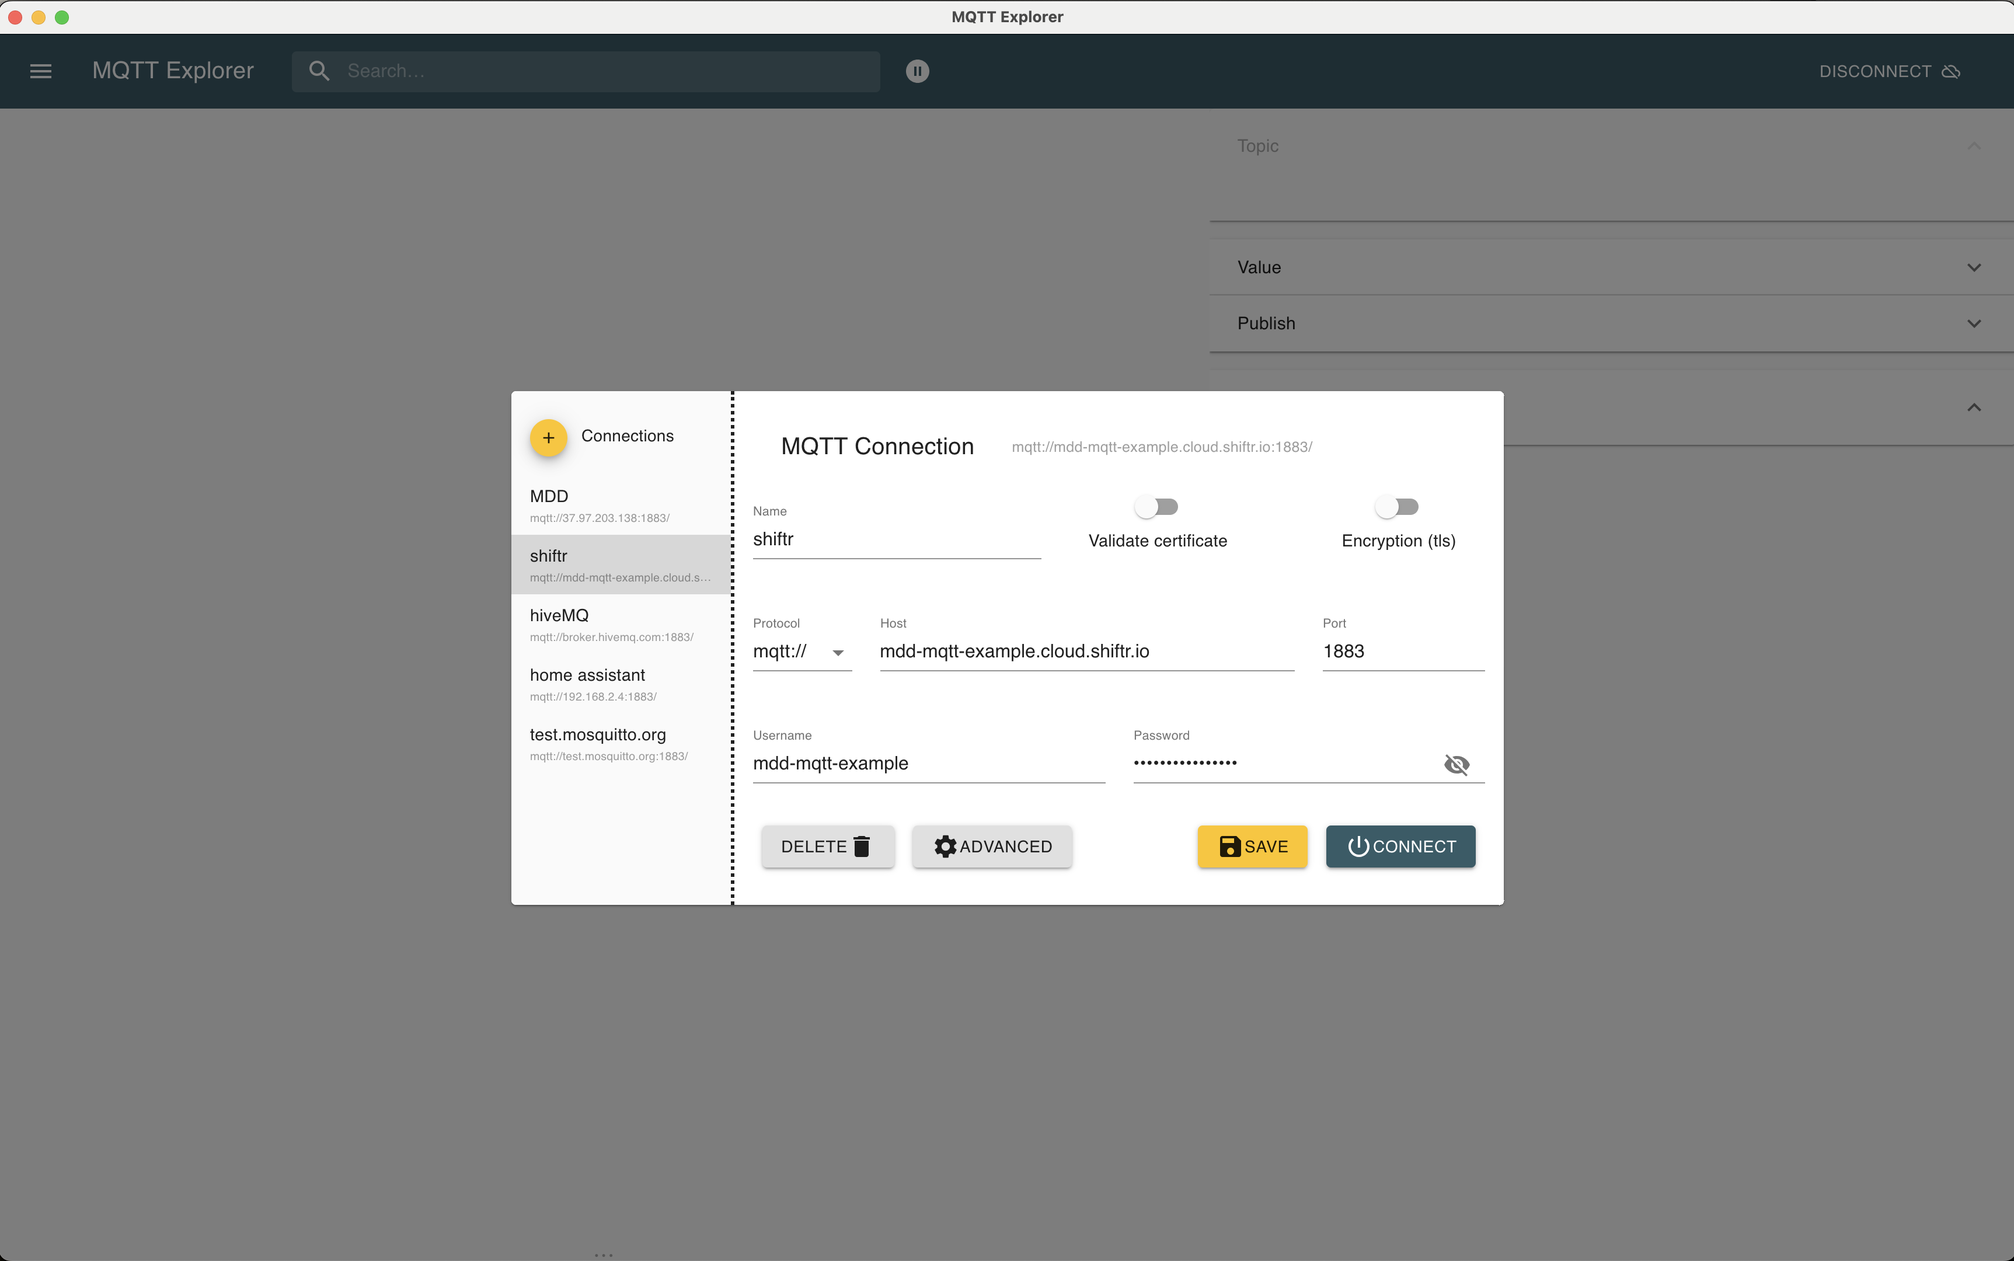
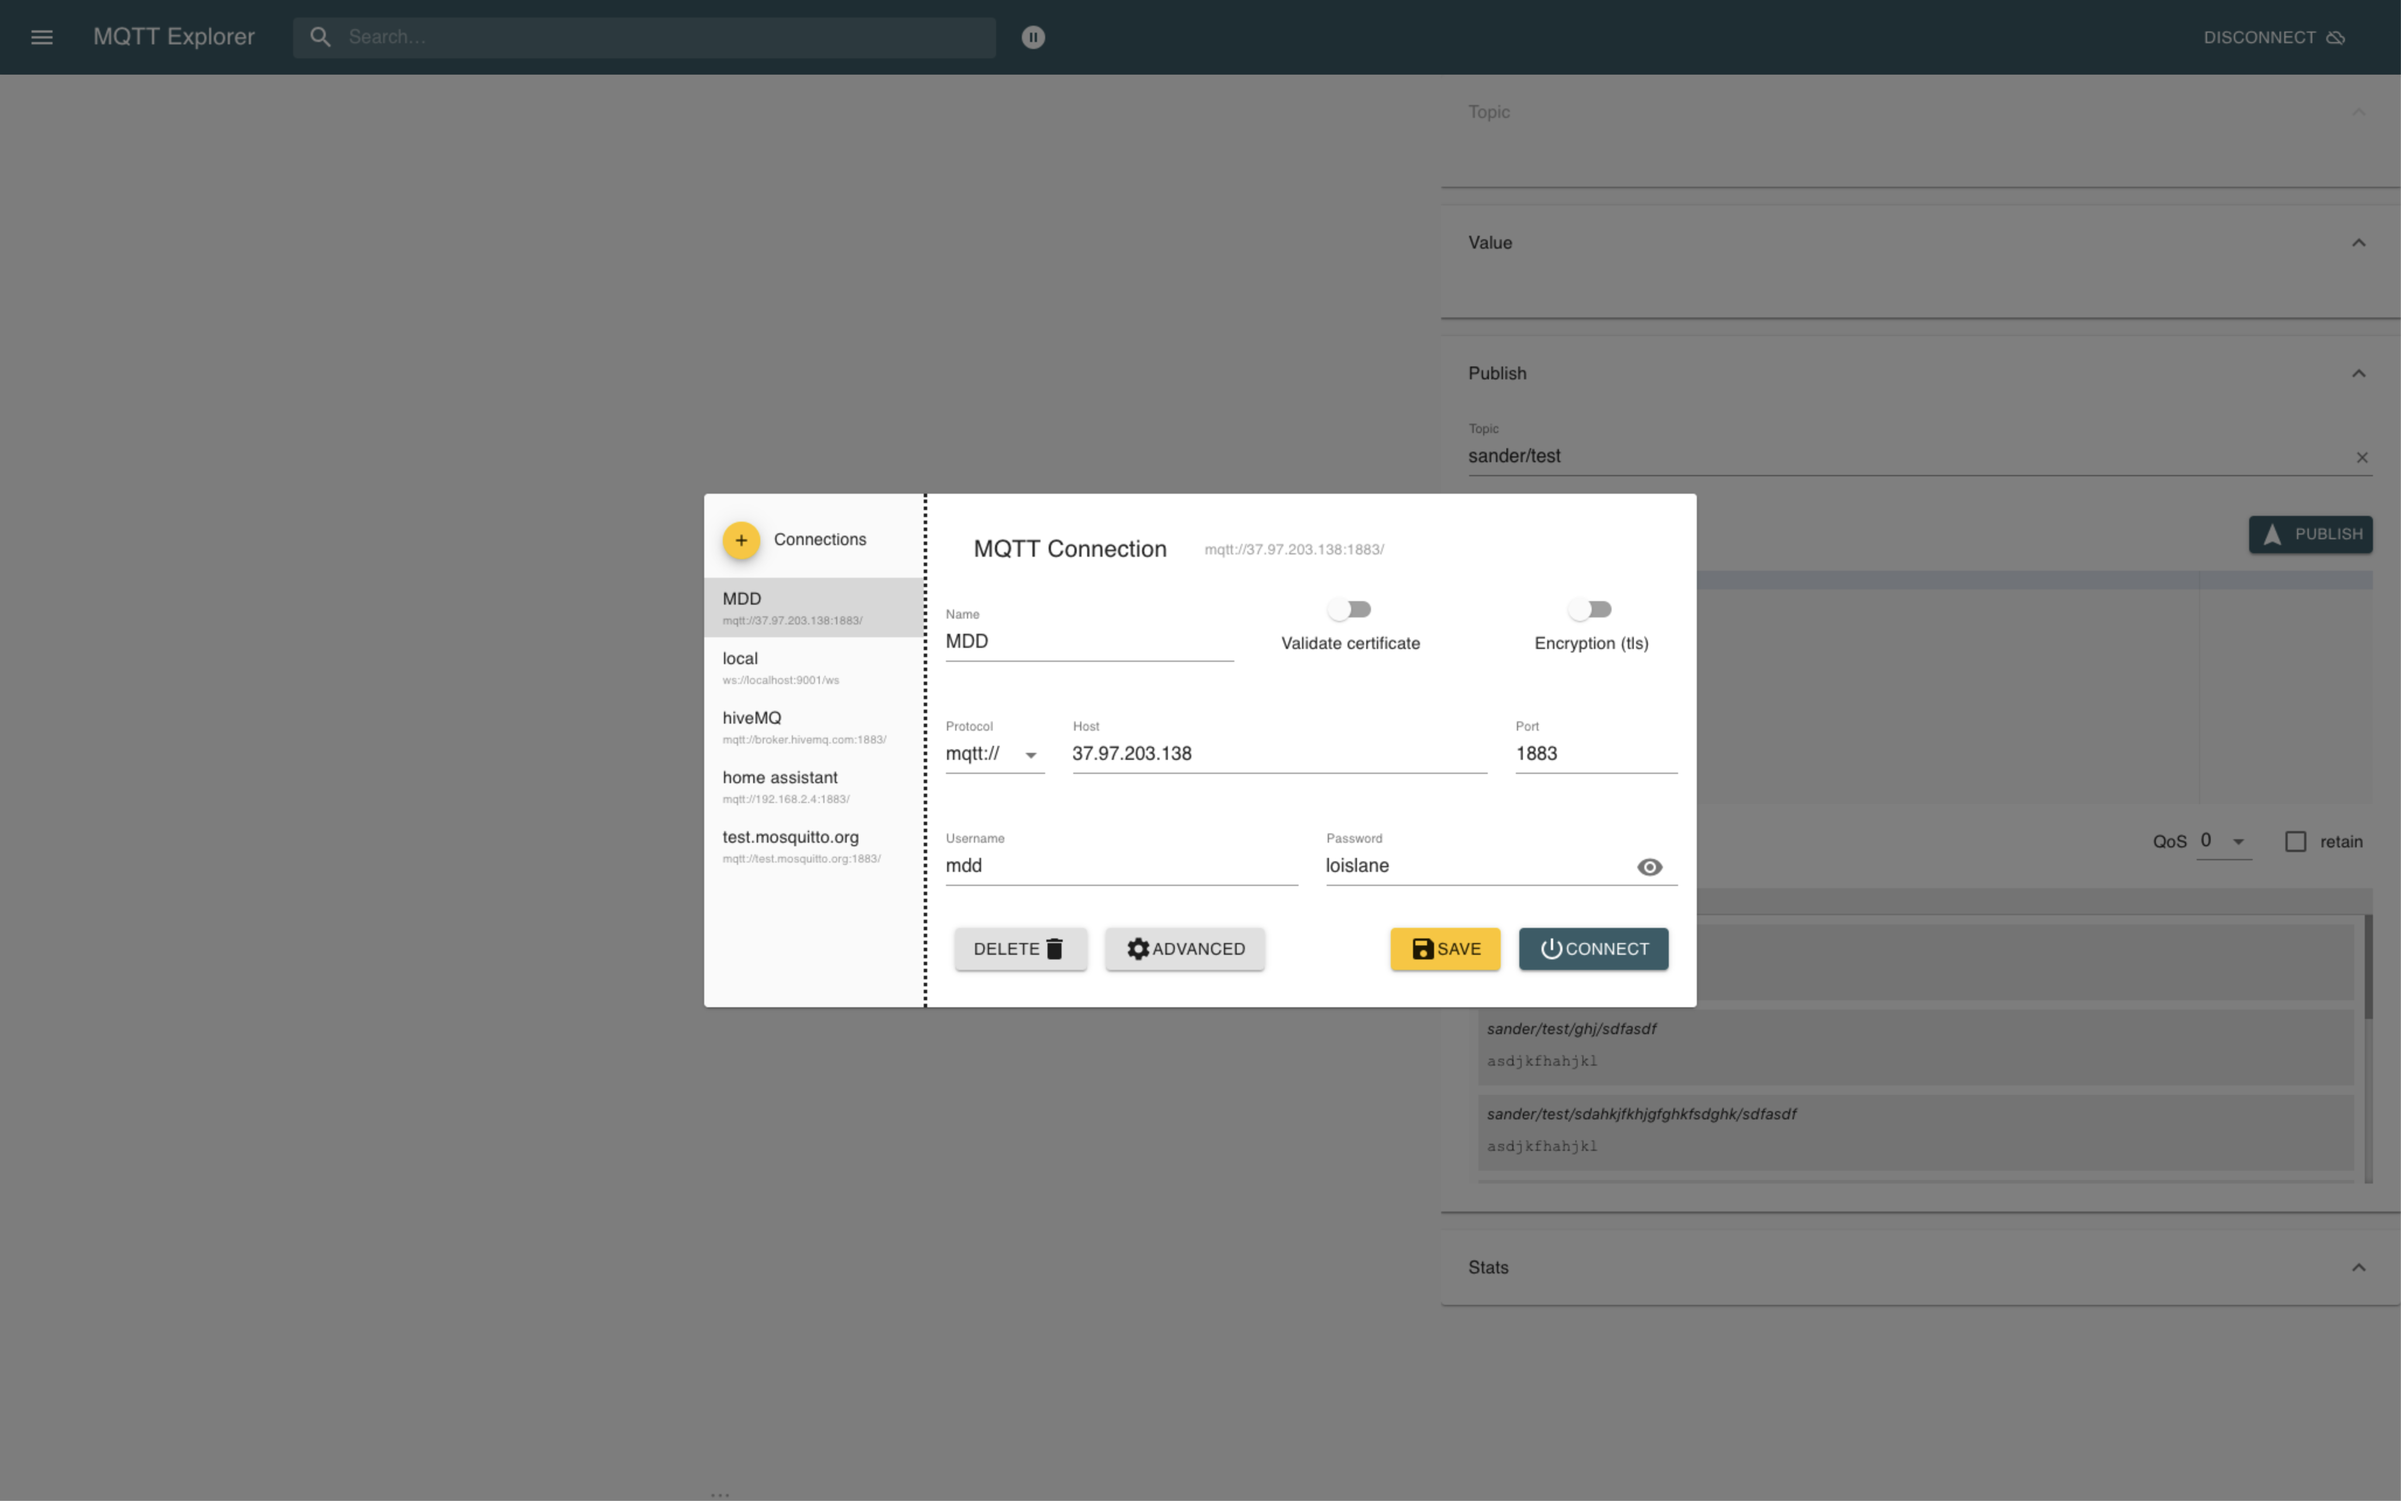
update slides to use mdd mqtt

diff --git a/examples/index.html b/examples/index.html
@@ -1,23 +1,25 @@
 <body>
-  <script src="https://unpkg.com/paho-mqtt@1.0.2/mqttws31.js"></script>
+  <script src="https://unpkg.com/mqtt/dist/mqtt.min.js"></script>
   <script>
     const id = Math.random().toString(36).substring(7);
-    const topic = "<topic>";
-    const client = new Paho.MQTT.Client("37.97.203.138", 9001, id);
-    
-    client.onMessageArrived = (message) => {
-      console.log("received: " + message.payloadString);
-    }
+    const topic = "topic";
+    const connection = "ws://mdd:loislane@37.97.203.138:9001";
+    const client = mqtt.connect(connection);
 
-    client.connect({
-      userName: "mdd",
-      password: "loislane",
-      onSuccess: () => {
-        client.subscribe(topic);
-        client.send(topic, "Hello from " + id);
-      },
-      useSSL: window.location.protocol === "https:",
-      onFailure: console.log,
-    })
+    client.on("message", messageReceived);
+    client.on("connect", function() {
+      println("connected!");
+      client.subscribe("topic");
+      client.publish("topic", "Hello from HTML");
+    });
+
+    function messageReceived(topic, message) {
+      println(topic + ": " + message);
+    }
+    function println(message) {
+      const p = document.createElement("p");
+      p.textContent = message;
+      document.querySelector("body").append(p);
+    }
   </script>
 </body>

diff --git a/slides.md b/slides.md
@@ -29,7 +29,7 @@ title: What is MQTT?
 ---
 
 <em class="text-5xl">
-MQTT [...] is designed as an extremely lightweight <code class="underline underline-[#1BAA54]">publish/subscribe</code> messaging transport that is ideal for connecting remote devices with a small code footprint [...]
+MQTT [...] is designed as an extremely lightweight <code class="underline underline-[#193F52]">publish/subscribe</code> messaging transport that is ideal for connecting remote devices with a small code footprint [...]
 </em>
 
 <cite>https://mqtt.org</cite>
@@ -128,7 +128,8 @@ sequenceDiagram
     content: ' ';
     width: 15px;
     height: 15px;
-    background-color: #1BAA54;
+    background-color: #D5EEF4;
+    border: 2px solid #193F52;
     border-radius: 50%;
     position: absolute;
     animation-duration: 2s;
@@ -154,15 +155,15 @@ preload: true
 ```mermaid
 sequenceDiagram
   participant Arduino
-  participant Shiftr
+  participant MDD
   participant Website
   participant TouchDesigner
 
-  Website->>Shiftr: Subscribe
-  TouchDesigner->>Shiftr: Subscribe
-  Arduino->>+Shiftr: Publish message
-  Shiftr->>Website: Deliver message
-  Shiftr->>-TouchDesigner: Deliver message
+  Website->>MDD: Subscribe
+  TouchDesigner->>MDD: Subscribe
+  Arduino->>+MDD: Publish message
+  MDD->>Website: Deliver message
+  MDD->>-TouchDesigner: Deliver message
 ```
 
 <div class="animated-dot one"></div>
@@ -236,7 +237,8 @@ sequenceDiagram
     content: ' ';
     width: 15px;
     height: 15px;
-    background-color: #1BAA54;
+    background-color: #D5EEF4;
+    border: 2px solid #193F52;
     border-radius: 50%;
     position: absolute;
     animation-duration: 2s;
@@ -254,13 +256,13 @@ sequenceDiagram
 
 
 ---
-title: Demo using shiftr.io
-image: ./shiftr.png
+title: Demo using mdd-tardis.net
+image: ./mqtt-visualization.png
 layout: image
 ---
 
 <div class="flex items-end justify-center h-full text-4xl">
-  <a href="https://mdd-mqtt.cloud.shiftr.io/">mdd-mqtt.cloud.shiftr.io</a>
+  <a href="http://37.97.203.138:8081">http://37.97.203.138:8081</a>
 </div>
 
 ---
@@ -271,7 +273,7 @@ layout: image
 ---
 
 <div class="flex items-end justify-center h-full text-4xl">
-  <a href="http://37.97.203.138:8081">http://37.97.203.138:8081</a>
+  <a href="https://mqtt-explorer.com">https://mqtt-explorer.com</a>
 </div>
 
 ---
@@ -279,17 +281,17 @@ title: Topics
 layout: fact
 ---
 
-<div class="text-7xl">MDD<span class="text-[#1BAA54]">/</span>class<span class="text-[#1BAA54]">/</span>2024</div>
+<div class="text-7xl">MDD<span class="text-[#193F52]">/</span>class<span class="text-[#193F52]">/</span>2024</div>
 
-<arrow x1="390" y1="410" x2="390" y2="320" color="#1BAA54" width="2" />
-<arrow x1="580" y1="410" x2="580" y2="320" color="#1BAA54" width="2" />
+<arrow x1="390" y1="410" x2="390" y2="320" color="#193F52" width="2" />
+<arrow x1="580" y1="410" x2="580" y2="320" color="#193F52" width="2" />
 
 <arrow x1="280" y1="130" x2="280" y2="230" color="#fff" width="2" />
 <arrow x1="490" y1="130" x2="490" y2="230" color="#fff" width="2" />
 <arrow x1="690" y1="130" x2="690" y2="230" color="#fff" width="2" />
 
 <div class="text-3xl absolute top-15 left-105 italic">topic level</div>
-<div class="text-3xl absolute top-110 left-88 italic text-[#1BAA54]">topic level separator</div>
+<div class="text-3xl absolute top-110 left-88 italic text-[#193F52]">topic level separator</div>
 
 
 ---
@@ -328,24 +330,24 @@ layout: two-cols
 WiFiClient net;
 MQTTClient client;
 
+void setup() {
+  Serial.begin(115200);
+  pinMode(LED_BUILTIN, OUTPUT);
+  WiFi.begin("iotroam", "loislane");
+  client.begin("37.97.203.138", net);
+  client.onMessage(messageReceived);
+  connect();
+}
 void connect() {
-  digitalWrite(LED_BUILTIN, LOW);
-  while (WiFi.status() != WL_CONNECTED) { delay(100); }
-  while (!client.connect("id", "user", "pass")) { delay(100); }
+  digitalWrite(LED_BUILTIN, LOW); // Show connecting
+  while (WiFi.status() != WL_CONNECTED) {delay(100);}
+  while (!client.connect("id", "mdd", "loislane")) {delay(100);}
   digitalWrite(LED_BUILTIN, HIGH); // Show connected
   client.subscribe("topic");
   client.publish("topic", "Hello from arduino");
 }
-void setup() {
-  Serial.begin(115200);
-  pinMode(LED_BUILTIN, OUTPUT);
-  WiFi.begin("ssid", "pass");
-  client.begin("server", net);
-  client.onMessage(messageReceived);
-  connect();
-}
-void messageReceived(String &topic, String &payload) {
-  Serial.println(topic + ": " + payload);
+void messageReceived(String &topic, String &message) {
+  Serial.println(topic + ": " + message);
 }
 void loop() {
   client.loop(); delay(10);
@@ -361,22 +363,24 @@ void loop() {
 ```html
 <body>
   <script src="https://unpkg.com/mqtt/dist/mqtt.js"></script>
-
   <script>
-    const client = mqtt.connect("server", {
-      clientId: "id"
-    });
+    const connection = "ws://mdd:loislane@37.97.203.138:9001";
+    const client = mqtt.connect(connection);
 
-    client.on("message", messageReceived)
-
-    client.on("connect", function () {
-      console.log("connected!");
+    client.on("message", messageReceived);
+    client.on("connect", function() {
+      println("connected!");
       client.subscribe("topic");
       client.publish("topic", "Hello from HTML");
     });
 
     function messageReceived(topic, message) {
-      console.log(topic + ": " + message);
+      println(topic + ": " + message);
+    }
+    function println(message) {
+      const p = document.createElement("p");
+      p.textContent = message;
+      document.querySelector("body").append(p);
     }
   </script>
 </body>
@@ -384,7 +388,7 @@ void loop() {
 
 <br>
 * Both examples are based on this starter code
-<br><br>
+<br>
 <a href="https://www.shiftr.io/docs/manuals">https://www.shiftr.io/docs/manuals</a>
 </template>
 
